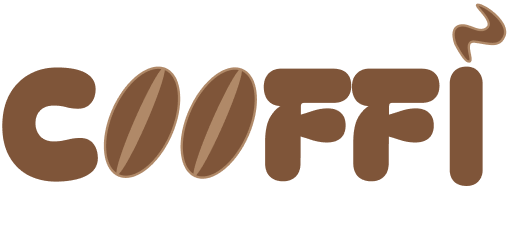
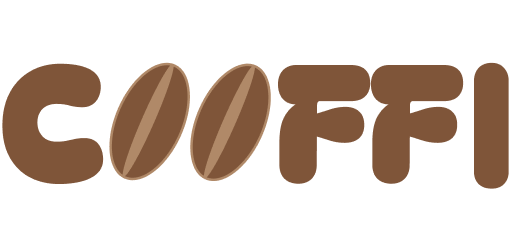
subiendo cambios

diff --git a/style.css b/style.css
@@ -24,15 +24,16 @@ header {
 
 .container {
     margin: 0 auto;
-    padding: 0 1.9rem;
+    padding: 0 1.5rem;
     display: flex;
     justify-content: space-between;
     align-items: center;
+   /* gap: clamp(20px, 5vw, 50px); /* Espaciado mínimo de 20px, dinámico hasta 50px */
 }
 
 /* Logo */
 .logo img {
-    max-width: calc(25px + 12vw);
+    max-width: calc(20px + 10vw);
     min-width: 90px; /* Tamaño mínimo */
 }
 
@@ -60,7 +61,7 @@ header {
     background-color: var(--Brown-light);
     color: #FFFFFF;
     border-bottom: var(--Brown-dark) solid 3px;
-    padding: 2.0rem 1rem;
+    padding: 1.6rem 1rem;
 }
 
 /* Botones */
@@ -108,6 +109,7 @@ header {
     gap: calc(4px - 1px);
     min-width: 40px; /* Tamaño mínimo */
     width: calc(30px + 2vw); /* Aumenta dinámicamente con el tamaño de la pantalla */
+    padding-left: 18px;
 }
 
 .bar {
@@ -124,14 +126,18 @@ header {
     right: -250px;
     width: 250px;
     height: 100%;
+    margin-top: 48px; 
     background-color: var(--Brown-second-light);
     box-shadow: -2px 0 5px rgba(0, 0, 0, 0.2);
+    border-top: var(--Brown-dark) solid 2px;
+    border-bottom: var(--Brown-dark) solid 2px;
     transition: 0.3s;
     padding-top: 60px;
 }
 
 .sidebar .close-btn {
     position: absolute;
+    color: var(--Brown-dark);
     top: 10px;
     right: 15px;
     font-size: 25px;
@@ -139,6 +145,8 @@ header {
     border: none;
     cursor: pointer;
 }
+
+
 
 .sidebar .nav-list {
     flex-direction: column;
@@ -174,6 +182,10 @@ header {
     .sidebar.active {
         right: 0;
     }
+
+    .nav-link:hover {
+        border-bottom: var(--Brown-dark) solid 3px;
+    }
 }
 
 /*Hero section*/
@@ -181,4 +193,4 @@ header {
     margin-top: 6rem;
 }
 
-/*TENEMOS QUE CAMBIAR EL MARGIN DEL MENU BAR*/
+/*TENEMOS QUE CAMBIAR EL MARGIN DEL MENU BAR*/  
